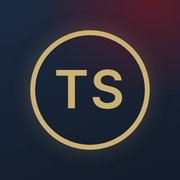
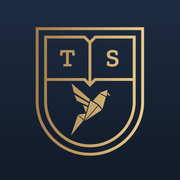
Логотип TODAY Scholars (щит): иконка сайта, ярлык на телефоне и шапка
Claude-Session: https://claude.ai/code/session_015gsZWWVPzvJGkKPdcKwwfP

diff --git a/src/components/AppHeader.tsx b/src/components/AppHeader.tsx
@@ -51,9 +51,8 @@ export function AppHeader() {
             href={isParentGuest ? "/" : homeHref}
             className="flex min-w-0 items-center gap-3"
           >
-            <span className="flex size-10 shrink-0 items-center justify-center rounded-full border-[1.5px] border-gold text-sm font-semibold text-gold">
-              TS
-            </span>
+            {/* eslint-disable-next-line @next/next/no-img-element */}
+            <img src="/logo-shield.png" alt="" width={34} height={40} className="h-10 w-auto shrink-0" />
             <span className="min-w-0">
               <span className="block text-sm font-medium tracking-[0.12em] sm:text-[15px]">
                 TODAY SCHOLARS
